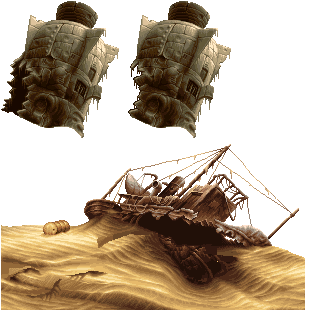
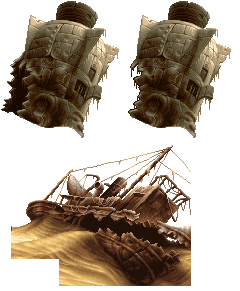
fix : obstacle과 slop ground 수정

diff --git a/WinAPI/CSceneStage01.cpp b/WinAPI/CSceneStage01.cpp
@@ -117,14 +117,16 @@ void CSceneStage01::Init()
 	pFishFront->SetRenderAsFrame(true);
 	pFishFront->SetSourceInfo(sourceFishFrontInfo[0], sourceFishFrontInfo[1], sourceFishFrontInfo[2], sourceFishFrontInfo[3]);
 
-	CImageObject* pBoat = new CImageObject;
+	pBoat = new CImageObject;
 	CImage* pBoatImg = RESOURCE->LoadImg(L"boat", L"Image\\BackGround\\Boat.png");
 	pBoat->SetImage(pBoatImg);
 	pBoat->SetExtension(extension);
-	pBoat->SetPos(pFishBack->GetPos());
-	float sourceBoatInfo[4] = { 1, 143, 305, 310 };
+	pBoat->SetPos(2025,180);
+	float sourceBoatInfo[4] = { 1, 143, 304, 167 };
 	pBoat->SetRenderAsFrame(true);
 	pBoat->SetSourceInfo(sourceBoatInfo[0], sourceBoatInfo[1], sourceBoatInfo[2], sourceBoatInfo[3]);
+	pBoat->SetAlpha(1);
+
 
 #pragma endregion
 
@@ -213,10 +215,16 @@ void CSceneStage01::Init()
 	CColliderObject* pGround3 = new CColliderObject;
 	pGround3->SetName(L"slopeGround");
 	pGround3->SetExtension(extension);
-	pGround3->SetPos(2900, 610);
-	pGround3->SetScale(230, 10);
+	pGround3->SetPos(2890, 610);
+	pGround3->SetScale(230, 14);
 	pGround3->SetType(ColliderType::Obb);
 	pGround3->SetRot(13);
+
+	CColliderObject* pBrokenBoat = new CColliderObject;
+	pBrokenBoat->SetName(L"obstacle");
+	pBrokenBoat->SetExtension(extension);
+	pBrokenBoat->SetPos(3200, 560);
+	pBrokenBoat->SetScale(10, 40);
 
 
 	//Logger::Debug(to_wstring(pFrontOceanCollider->GetPos().x) + L", !" + to_wstring(pGround1->GetPos().x));
@@ -241,6 +249,7 @@ void CSceneStage01::Init()
 	AddGameObject(pFrontOceanCollider);
 	AddGameObject(pWaterAniObj);
 	AddGameObject(m_pObstacle);
+	AddGameObject(pBrokenBoat);
 
 	AddGameObject(m_pInsertCoinImgObj);
 	AddGameObject(m_pMissionImgObj1);

diff --git a/WinAPI/CConga.cpp b/WinAPI/CConga.cpp
@@ -128,13 +128,35 @@ void CConga::OnCollisionEnter(CCollider* pOtherCollider)
 	{
 		m_pGravity->SetVelocity(0);
 	}
+	if (pOtherCollider->GetObjName() == L"slopeGround")
+	{
+		m_pGravity->SetVelocity(0);
+	}
 }
 
 void CConga::OnCollisionStay(CCollider* pOtherCollider)
 {
 	if (pOtherCollider->GetObjName() == L"ground")
 	{
+		if (m_congaState == CongaStatus::Death)
+			m_fSpeed = 0;
 		m_pGravity->SetVelocity(0);
+	}
+	if (pOtherCollider->GetObjName() == L"slopeGround")
+	{
+		m_pGravity->SetVelocity(0);
+		if (m_congaState == CongaStatus::Death)
+			m_fSpeed = 0;
+		if (pOtherCollider->GetRotation() < 0)
+		{
+			if (m_vecMoveDir.x > 0)
+				m_vecPos.y += pOtherCollider->GetScale().x * sin(pOtherCollider->GetRotation()) * m_vecLookDir.x * DT;
+		}
+		else
+		{
+			if (m_vecMoveDir.x < 0)
+				m_vecPos.y += pOtherCollider->GetScale().x * sin(pOtherCollider->GetRotation()) * m_vecLookDir.x * DT;
+		}
 	}
 }
 

diff --git a/WinAPI/CSceneStage01.h b/WinAPI/CSceneStage01.h
@@ -39,6 +39,7 @@ private:
 	Vector m_vecStartPos2;
 
 	CImageObject* m_pBackGround;
+	CImageObject* pBoat;
 	CAniObject* pWaterAniObj;
 	CColliderObject* m_pObstacle;
 	CConga* m_pConga;
